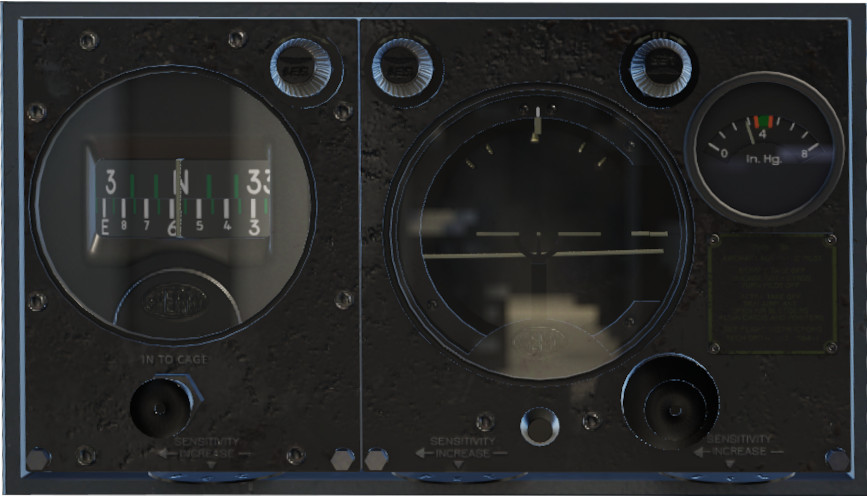
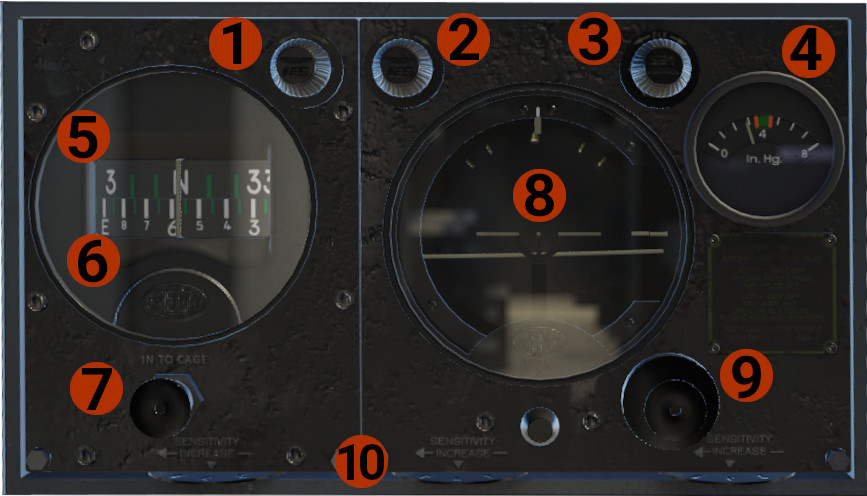
Deployed 1340346 with MkDocs version: 1.4.2

diff --git a/docs/classic/autopilot/index.html b/docs/classic/autopilot/index.html
@@ -1,0 +1,247 @@
+<!DOCTYPE html>
+<html class="writer-html5" lang="en" >
+<head>
+    <meta charset="utf-8" />
+    <meta http-equiv="X-UA-Compatible" content="IE=edge" />
+    <meta name="viewport" content="width=device-width, initial-scale=1.0" /><link rel="canonical" href="https://airfightergr.github.io/les_dc3_docs/docs/classic/autopilot/" />
+      <link rel="shortcut icon" href="../../../img/favicon.ico" />
+    <title>Automatic Pilot - Leading Edge Simulations<br/>DC-3 v2</title>
+    <link rel="stylesheet" href="../../../css/theme.css" />
+    <link rel="stylesheet" href="../../../css/theme_extra.css" />
+        <link rel="stylesheet" href="https://cdnjs.cloudflare.com/ajax/libs/highlight.js/10.5.0/styles/github.min.css" />
+    
+      <script>
+        // Current page data
+        var mkdocs_page_name = "Automatic Pilot";
+        var mkdocs_page_input_path = "docs/classic/autopilot.md";
+        var mkdocs_page_url = "/les_dc3_docs/docs/classic/autopilot/";
+      </script>
+    
+    <script src="../../../js/jquery-3.6.0.min.js" defer></script>
+    <!--[if lt IE 9]>
+      <script src="../../../js/html5shiv.min.js"></script>
+    <![endif]-->
+      <script src="https://cdnjs.cloudflare.com/ajax/libs/highlight.js/10.5.0/highlight.min.js"></script>
+      <script>hljs.initHighlightingOnLoad();</script> 
+</head>
+
+<body class="wy-body-for-nav" role="document">
+
+  <div class="wy-grid-for-nav">
+    <nav data-toggle="wy-nav-shift" class="wy-nav-side stickynav">
+    <div class="wy-side-scroll">
+      <div class="wy-side-nav-search">
+          <a href="../../.." class="icon icon-home"> Leading Edge Simulations<br/>DC-3 v2
+        </a><div role="search">
+  <form id ="rtd-search-form" class="wy-form" action="../../../search.html" method="get">
+      <input type="text" name="q" placeholder="Search docs" title="Type search term here" />
+  </form>
+</div>
+      </div>
+
+      <div class="wy-menu wy-menu-vertical" data-spy="affix" role="navigation" aria-label="Navigation menu">
+              <p class="caption"><span class="caption-text">Welcome</span></p>
+              <ul>
+                  <li class="toctree-l1"><a class="reference internal" href="../../..">Overview</a>
+                  </li>
+                  <li class="toctree-l1"><a class="reference internal" href="../../../gui/">User Interface</a>
+                  </li>
+                  <li class="toctree-l1"><a class="reference internal" href="../../../support/">Support</a>
+                  </li>
+              </ul>
+              <p class="caption"><span class="caption-text">Select Aircraft</span></p>
+              <ul class="current">
+                  <li class="toctree-l1 current"><a class="reference internal current" href="#">DC-3 Classic</a>
+    <ul class="current">
+                <li class="toctree-l2"><a class="reference internal" href="../classic/">Introduction</a>
+                </li>
+                <li class="toctree-l2"><a class="reference internal" href="../plt_panel/">Pilot's Panel</a>
+                </li>
+                <li class="toctree-l2"><a class="reference internal" href="../cplt_panel/">Copilot's Panel</a>
+                </li>
+                <li class="toctree-l2"><a class="reference internal" href="../center_panel/">Center Panel</a>
+                </li>
+                <li class="toctree-l2"><a class="reference internal" href="../overhead/">Overhead</a>
+                </li>
+                <li class="toctree-l2"><a class="reference internal" href="../radios/">Radios</a>
+                </li>
+                <li class="toctree-l2 current"><a class="reference internal current" href="./">Automatic Pilot</a>
+    <ul class="current">
+    <li class="toctree-l3"><a class="reference internal" href="#history">History</a>
+    </li>
+    <li class="toctree-l3"><a class="reference internal" href="#operation">Operation</a>
+    </li>
+    <li class="toctree-l3"><a class="reference internal" href="#simulated-sperry-a-3a-automatic-pilot">Simulated Sperry A-3A Automatic Pilot</a>
+        <ul>
+    <li class="toctree-l4"><a class="reference internal" href="#overview">Overview</a>
+    </li>
+    <li class="toctree-l4"><a class="reference internal" href="#operation_1">Operation</a>
+    </li>
+        </ul>
+    </li>
+    <li class="toctree-l3"><a class="reference internal" href="#sperry-a-3a-automatic-pilot_1">Sperry A-3A Automatic Pilot</a>
+        <ul>
+    <li class="toctree-l4"><a class="reference internal" href="#theory-of-operation">Theory Of Operation</a>
+    </li>
+    <li class="toctree-l4"><a class="reference internal" href="#operation_2">Operation</a>
+    </li>
+        </ul>
+    </li>
+    </ul>
+                </li>
+    </ul>
+                  </li>
+              </ul>
+      </div>
+    </div>
+    </nav>
+
+    <section data-toggle="wy-nav-shift" class="wy-nav-content-wrap">
+      <nav class="wy-nav-top" role="navigation" aria-label="Mobile navigation menu">
+          <i data-toggle="wy-nav-top" class="fa fa-bars"></i>
+          <a href="../../..">Leading Edge Simulations<br/>DC-3 v2</a>
+        
+      </nav>
+      <div class="wy-nav-content">
+        <div class="rst-content"><div role="navigation" aria-label="breadcrumbs navigation">
+  <ul class="wy-breadcrumbs">
+    <li><a href="../../.." class="icon icon-home" alt="Docs"></a> &raquo;</li>
+          <li>Select Aircraft &raquo;</li>
+          <li>DC-3 Classic &raquo;</li>
+      <li>Automatic Pilot</li>
+    <li class="wy-breadcrumbs-aside">
+    </li>
+  </ul>
+  <hr/>
+</div>
+          <div role="main" class="document" itemscope="itemscope" itemtype="http://schema.org/Article">
+            <div class="section" itemprop="articleBody">
+              
+                <h1 id="sperry-a-3a-automatic-pilot">Sperry A-3A Automatic Pilot</h1>
+<h2 id="history">History</h2>
+<p>The original DC-3 was equipped with the Sperry Type A-3A Automatic Pilot, a 1930’s system. 
+The automatic pilot, is based on pneumatic (or electric) operation, was developed to correct the angular deviations from straight and level flight, 
+so WWII era bombers (like the B-17 Flying Fortress) become somewhat stable platforms for weapons (bombs) delivery.</p>
+<h2 id="operation">Operation</h2>
+<p>The A-3A had the ability to maintain aircraft's attitude, keep a heading, and also make some adjustments
+For our simulation, and taking in mind the very restrict capabilities, we designed 2 versions, the first is working in a "simplified way", 
+and the other simulates the original autopilot.</p>
+<h2 id="simulated-sperry-a-3a-automatic-pilot">Simulated Sperry A-3A Automatic Pilot</h2>
+<div class="admonition hint">
+<p class="admonition-title">INFO</p>
+<p>This is the "simplified" version, that utilizes X-Plane's autopilot system to work, though it was customized to represent an operation close to the original.</p>
+</div>
+<h3 id="overview">Overview</h3>
+<p><img alt="Autopilot" src="../sperry_ap.jpg" /></p>
+<ol>
+<li><strong>RUD</strong> knob: Controls the Rudder Follow-Up Card (upper card, #5).</li>
+<li><strong>AIL</strong> knob: Controls the Aileron Follow-Up index (top of the artificial horizon, #8).</li>
+<li><strong>ELE</strong> knob: Controls the Elevator Follow-Up index (right side of the artificial horizon, #8).</li>
+<li>Autopilot system vacuum pressure.</li>
+<li>Rudder Follow-Up Card.</li>
+<li>Directional Gyro Card.</li>
+<li>Caging Knob: Push to cage, and then rotate to match wet compass.</li>
+<li><strong>Artificial Horizon:</strong> Includes:<ul>
+<li>Top side: Bank index and Aileron Follow-Up index.</li>
+<li>Right side: Elevator index and Elevator Follow-Up index.</li>
+<li>Middle: Miniature airplane and Horizon dial.</li>
+</ul>
+</li>
+<li>Caging knob.</li>
+<li>Valve Speed Controls: Determine the responsiveness of the automatic pilot. <em>Not simulated.</em></li>
+</ol>
+<h3 id="operation_1">Operation</h3>
+<div class="admonition attention">
+<p class="admonition-title">CAUTION</p>
+<p>Prior engaging the Automatic Pilot, make sure that the aircraft is in straight and level path, and trimmed.
+Also, the Aileron and Elevator Follow-Up indexes, must be aligned with the artificial horizon attitude, to avoid
+abrupt movement of the aircraft.</p>
+</div>
+<ul>
+<li>Before take off, make sure that the DG card is matched with the wet compass.</li>
+<li>After take off and at a safe altitude, level the aircraft, and trim, before autopilot engagement.</li>
+<li>Align the aileron and elevator follow-up indexes.</li>
+<li>Turn autopilot on, but hold the controls, until you feel that the aircraft is stable.</li>
+<li>In that mode, the aircraft is in "pitch and roll" hold mode. Now you can use aileron and elevator knobs to turn, or climb/ descend.</li>
+<li>You can also enable the "heading" mode. To do so, prior autopilot engagement, align the rudder follow-up card with the DG card, and then engage the autopilot.
+If the engagement happen within couple degrees, you are in heading mode, though there is no annunciation.</li>
+<li>In heading mode, use the rudder knob to set the desired heading you want, for the aircraft to follow.</li>
+<li>Disengage the autopilot at a safe altitude, before final approach.</li>
+<li>With autopilot engaged is possible to use, if needed, the trims. Moving the controls, a bit more than normal, will simulate overpowering the autopilot.
+Keep in mind, that the autopilot will not disengage, and will try to return to the previous attitude, before your actions!</li>
+</ul>
+<h2 id="sperry-a-3a-automatic-pilot_1">Sperry A-3A Automatic Pilot</h2>
+<div class="admonition hint">
+<p class="admonition-title">INFO</p>
+<p>This is a simulation based on the original Sperry A-3A version. Not all parts are simulated. The complete simulation will be available in a future update.</p>
+</div>
+<h3 id="theory-of-operation">Theory Of Operation</h3>
+<p>The principal of operation is the balance between 2 vacuum ports. When a follow-up index is aligned with the respective bank or roll index, then the vacuum pressure between the 2 ports is equal (balanced).
+If there is a misalignment, then the vacuum pressure in not equal (imbalance) and the autopilot will act to correct this. In the example bellow, the roll axis will be described. The same applies to the pitch axis.</p>
+<p><img alt="Autopilot_Balanced" src="../a3a_balance.jpg" /></p>
+<ol>
+<li>
+<p><strong>Balanced Position:</strong> The vacuum pressure between <strong>A</strong> and <strong>A'</strong> is equal, as the pressure inside the diaphragm <strong>C</strong>, through the vacuum tubes (cyan color).
+<strong>C</strong> is connected to the piston <strong>G</strong>, which moves inside the manifold <strong>H</strong>. In this position, the hydraulic pressured fluid remains inside the manifold, and no pressure moves towards the aileron pistons.</p>
+<p><img alt="Autopilot_Imbalanced" src="../a3a_imbalance.jpg" /></p>
+</li>
+<li>
+<p><strong>Imbalanced Position:</strong> In an imbalanced situation, the green diaphragm blocks one of the ports (<strong>A'</strong>), removing the vacuum from the on side, while is wide open on the other side (<strong>A</strong>). 
+This moves the diaphragm <strong>C</strong> to the one side. Since it is connected to the piston <strong>G</strong>, the piston is moving as well, letting hydraulic fluid to pass through the pipe <strong>P</strong>,
+to the one side of the piston <strong>K</strong>, moving the connected ailerons. This will continue until the <strong>A'</strong> port is unblocked, and the vacuum is balanced again between <strong>A</strong> and <strong>A'</strong>.</p>
+</li>
+</ol>
+<h3 id="operation_2">Operation</h3>
+<p>The operation is the same as with the <strong>Simulated Sperry A-3A Automatic Pilot</strong>, as described above. There are though some differences. Because all the actions are purely mechanical, they are not filtered through any logic.
+In case of engaging the autopilot in an unbalance position (big difference between follow-up index and respective bank or roll index), a violent movement might occur. To avoid this, make sure that all indexes are aligned.</p>
+<p>Also, the <strong>heading mode</strong> is not available yet. In this mode, as described above, when the autopilot engagement occur with the rudder follow-up card with the DG card aligned, the aircraft will remain at the current heading.
+The <strong>AIL</strong> knob is disabled, and the <strong>RUD</strong> knob is used to correct heading by a few degrees, <em>by moving slightly the rudder</em>.</p>
+<div class="admonition note">
+<p class="admonition-title">DEVELOPER'S NOTE</p>
+<p>As you might have noticed, the autopilot is capable to provide some attitude hold capabilities, but nothing much more. Speaking with a few pilots who have flown aircraft with this autopilot, the common ground was that barely ever used,
+since DC-3 is quite stable in flight, and in calm weather, it is easy to hold the attitude, just by trimming the aircraft. In general was the hardest system to gather information, since almost all the flying DC-3s are retrofitted with more modern equipment. </p>
+</div>
+              
+            </div>
+          </div><footer>
+    <div class="rst-footer-buttons" role="navigation" aria-label="Footer Navigation">
+        <a href="../radios/" class="btn btn-neutral float-left" title="Radios"><span class="icon icon-circle-arrow-left"></span> Previous</a>
+    </div>
+
+  <hr/>
+
+  <div role="contentinfo">
+    <!-- Copyright etc -->
+  </div>
+
+  Built with <a href="https://www.mkdocs.org/">MkDocs</a> using a <a href="https://github.com/readthedocs/sphinx_rtd_theme">theme</a> provided by <a href="https://readthedocs.org">Read the Docs</a>.
+</footer>
+          
+        </div>
+      </div>
+
+    </section>
+
+  </div>
+
+  <div class="rst-versions" role="note" aria-label="Versions">
+  <span class="rst-current-version" data-toggle="rst-current-version">
+    
+    
+      <span><a href="../radios/" style="color: #fcfcfc">&laquo; Previous</a></span>
+    
+    
+  </span>
+</div>
+    <script>var base_url = '../../..';</script>
+    <script src="../../../js/theme_extra.js" defer></script>
+    <script src="../../../js/theme.js" defer></script>
+      <script src="../../../search/main.js" defer></script>
+    <script defer>
+        window.onload = function () {
+            SphinxRtdTheme.Navigation.enable(true);
+        };
+    </script>
+
+</body>
+</html>

diff --git a/docs/classic/radios/index.html b/docs/classic/radios/index.html
@@ -71,6 +71,8 @@
     </li>
     </ul>
                 </li>
+                <li class="toctree-l2"><a class="reference internal" href="../autopilot/">Automatic Pilot</a>
+                </li>
     </ul>
                   </li>
               </ul>
@@ -131,6 +133,7 @@
           </div><footer>
     <div class="rst-footer-buttons" role="navigation" aria-label="Footer Navigation">
         <a href="../overhead/" class="btn btn-neutral float-left" title="Overhead"><span class="icon icon-circle-arrow-left"></span> Previous</a>
+        <a href="../autopilot/" class="btn btn-neutral float-right" title="Automatic Pilot">Next <span class="icon icon-circle-arrow-right"></span></a>
     </div>
 
   <hr/>
@@ -155,6 +158,8 @@
     
       <span><a href="../overhead/" style="color: #fcfcfc">&laquo; Previous</a></span>
     
+    
+      <span><a href="../autopilot/" style="color: #fcfcfc">Next &raquo;</a></span>
     
   </span>
 </div>

diff --git a/404.html b/404.html
@@ -58,6 +58,8 @@
                 </li>
                 <li class="toctree-l2"><a class="reference internal" href="/les_dc3_docs/docs/classic/radios/">Radios</a>
                 </li>
+                <li class="toctree-l2"><a class="reference internal" href="/les_dc3_docs/docs/classic/autopilot/">Automatic Pilot</a>
+                </li>
     </ul>
                   </li>
               </ul>

diff --git a/gui/index.html b/gui/index.html
@@ -67,6 +67,8 @@
                 </li>
                 <li class="toctree-l2"><a class="reference internal" href="../docs/classic/radios/">Radios</a>
                 </li>
+                <li class="toctree-l2"><a class="reference internal" href="../docs/classic/autopilot/">Automatic Pilot</a>
+                </li>
     </ul>
                   </li>
               </ul>

diff --git a/support/index.html b/support/index.html
@@ -67,6 +67,8 @@
                 </li>
                 <li class="toctree-l2"><a class="reference internal" href="../docs/classic/radios/">Radios</a>
                 </li>
+                <li class="toctree-l2"><a class="reference internal" href="../docs/classic/autopilot/">Automatic Pilot</a>
+                </li>
     </ul>
                   </li>
               </ul>

diff --git a/search.html b/search.html
@@ -58,6 +58,8 @@
                 </li>
                 <li class="toctree-l2"><a class="reference internal" href="./docs/classic/radios/">Radios</a>
                 </li>
+                <li class="toctree-l2"><a class="reference internal" href="./docs/classic/autopilot/">Automatic Pilot</a>
+                </li>
     </ul>
                   </li>
               </ul>

diff --git a/docs/modern/modern/index.html b/docs/modern/modern/index.html
@@ -65,6 +65,8 @@
                 </li>
                 <li class="toctree-l2"><a class="reference internal" href="../../classic/radios/">Radios</a>
                 </li>
+                <li class="toctree-l2"><a class="reference internal" href="../../classic/autopilot/">Automatic Pilot</a>
+                </li>
     </ul>
                   </li>
               </ul>

diff --git a/index.html b/index.html
@@ -83,6 +83,8 @@
                 </li>
                 <li class="toctree-l2"><a class="reference internal" href="docs/classic/radios/">Radios</a>
                 </li>
+                <li class="toctree-l2"><a class="reference internal" href="docs/classic/autopilot/">Automatic Pilot</a>
+                </li>
     </ul>
                   </li>
               </ul>

diff --git a/docs/classic/center_panel/index.html b/docs/classic/center_panel/index.html
@@ -71,6 +71,8 @@
                 </li>
                 <li class="toctree-l2"><a class="reference internal" href="../radios/">Radios</a>
                 </li>
+                <li class="toctree-l2"><a class="reference internal" href="../autopilot/">Automatic Pilot</a>
+                </li>
     </ul>
                   </li>
               </ul>

diff --git a/docs/classic/classic/index.html b/docs/classic/classic/index.html
@@ -71,6 +71,8 @@
                 </li>
                 <li class="toctree-l2"><a class="reference internal" href="../radios/">Radios</a>
                 </li>
+                <li class="toctree-l2"><a class="reference internal" href="../autopilot/">Automatic Pilot</a>
+                </li>
     </ul>
                   </li>
               </ul>

diff --git a/docs/classic/cplt_panel/index.html b/docs/classic/cplt_panel/index.html
@@ -73,6 +73,8 @@
                 </li>
                 <li class="toctree-l2"><a class="reference internal" href="../radios/">Radios</a>
                 </li>
+                <li class="toctree-l2"><a class="reference internal" href="../autopilot/">Automatic Pilot</a>
+                </li>
     </ul>
                   </li>
               </ul>

diff --git a/docs/classic/overhead/index.html b/docs/classic/overhead/index.html
@@ -71,6 +71,8 @@
                 </li>
                 <li class="toctree-l2"><a class="reference internal" href="../radios/">Radios</a>
                 </li>
+                <li class="toctree-l2"><a class="reference internal" href="../autopilot/">Automatic Pilot</a>
+                </li>
     </ul>
                   </li>
               </ul>
